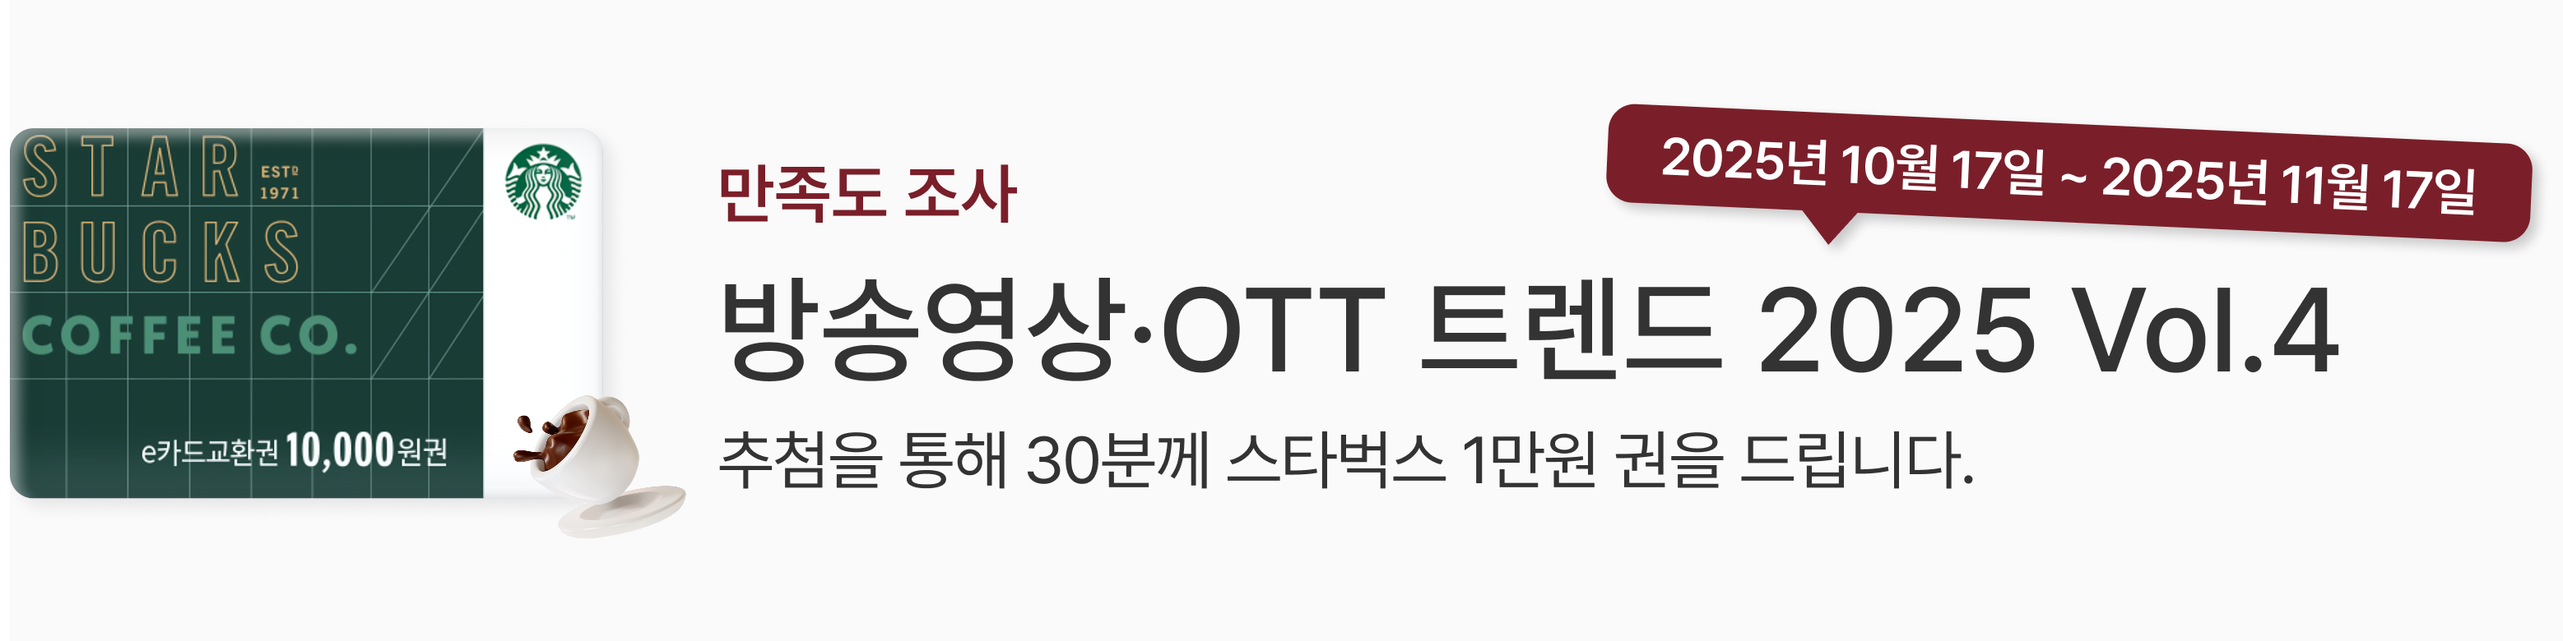
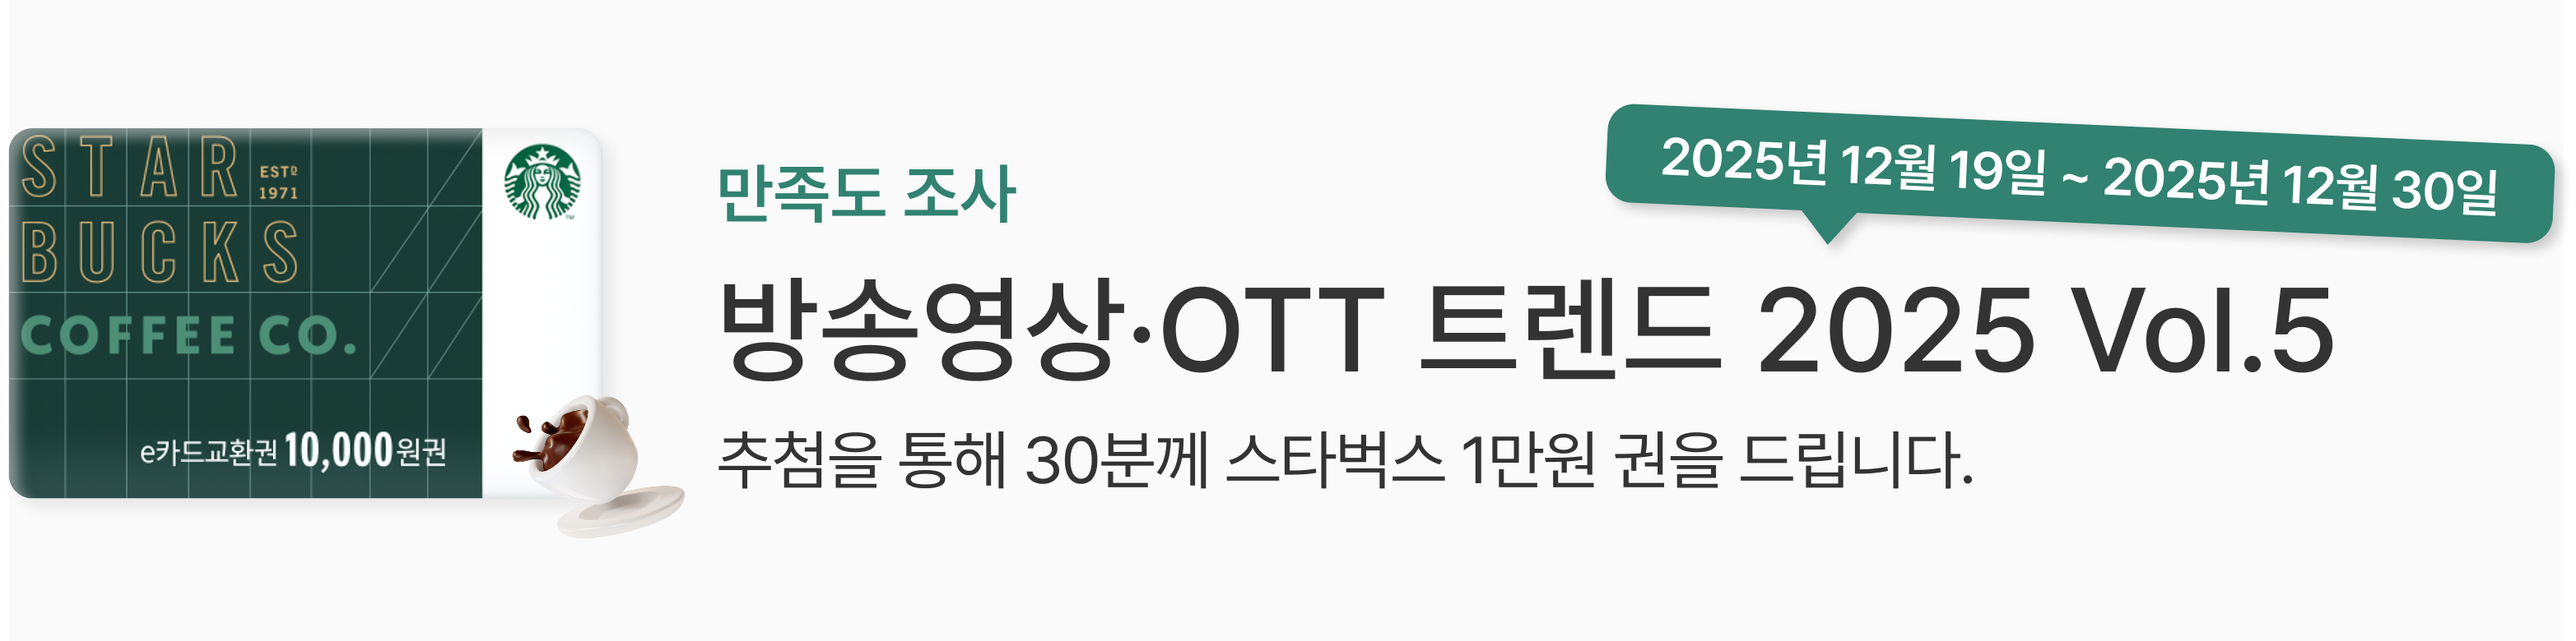
feat: 메인페이지 수정

diff --git a/index.html b/index.html
@@ -4,7 +4,7 @@
 <head>
   <meta charset="UTF-8" />
   <meta name="viewport" content="width=device-width, initial-scale=1.0" />
-  <meta name="방송영상·OTT 트렌드 2025 Vol. 4" content="방송영상·OTT 트렌드 2025 Vol. 4" />
+  <meta name="방송영상·OTT 트렌드 2025 Vol. 5" content="방송영상·OTT 트렌드 2025 Vol. 5" />
   <meta property="og:image" content="./img/assets/meta.png">
   <title>방송영상 · OTT 트렌드</title>
 
@@ -47,7 +47,7 @@
       <button id="menu-toggle" class="hamburger">
         <span></span><span></span><span></span>
       </button>
-      <div class="vol-info">2025 Vol. 4</div>
+      <div class="vol-info">2025 Vol. 5</div>
     </div>
 
     <!-- Fullscreen Mobile Modal -->
@@ -55,7 +55,7 @@
       <div class="menu-header">
         <p class="menu-title">메뉴</p>
         <div class="menu-right">
-          <div class="vol-info">2025 Vol. 4</div>
+          <div class="vol-info">2025 Vol. 5</div>
           <button id="menu-close">
             <img src="./img/assets/close.png" alt="닫기" class="close-btn" />
           </button>
@@ -95,10 +95,9 @@
               <div class="item-overlay"></div>
               <div class="item-content">
                 <div style="display: flex; flex-direction: column;">
-                  <p class="item-author">강재원ㅣ동국대학교 미디커뮤니케이션학과 교수</p>
-                  <p class="item-author">박성호ㅣMBC플러스 방송본부 부국장</p>
+                  <p class="item-author">최세정ㅣ고려대학교 미디어대학 교수</p>
                 </div>
-                <h2 class="item-title">K-방송영상콘텐츠의 새로운 시대를 열다: <span class="bodyQuotes">‘</span>성장통<span class="bodyQuotes">’</span>을 넘어서 <span class="bodyQuotes">‘</span>콘텐츠와 플랫폼이 상생하는 미디어 생태계<span class="bodyQuotes">’</span>로</h2>
+                <h2 class="item-title">크리에이터이코노미대격변: 니치 마켓의 선봉에서 미디어 생태계의 중심으로</h2>
               </div>
             </a>
           </div>
@@ -109,8 +108,8 @@
               <div class="item-bg" style="background-image: url('./img/manuscript2/thum.png');"></div>
               <div class="item-overlay"></div>
               <div class="item-content">
-                <p class="item-author">방연주ㅣ대중문화평론가</p>
-                <h2 class="item-title">생존 전략인가 전략적 동맹인가, 국제 공동제작 2.0</h2>
+                <p class="item-author">이은주ㅣ서울신문 기자</p>
+                <h2 class="item-title">‘팬심’이 곧 경쟁력...크리에이터 콘텐츠 생태계 이끄는 ‘팬덤 이코노미’</h2>
               </div>
             </a>
           </div>
@@ -121,30 +120,11 @@
               <div class="item-bg" style="background-image: url('./img/manuscript3/thum.png');"></div>
               <div class="item-overlay"></div>
               <div class="item-content">
-                <p class="item-author">박세진ㅣ한양대학교 미디어학과 부교수</p>
-                <h2 class="item-title">국제 공동제작 인센티브와 K-콘텐츠의 미래</h2>
+                <p class="item-author">권예지ㅣ한국방송광고진흥공사 미디어광고연구소 선임연구위원</p>
+                <h2 class="item-title">크리에이터 이코노미와 광고전략: 연결을 넘어 관계로, 관계를 넘어 시장으로</h2>
               </div>
             </a>
           </div>
-
-          <!-- SpotlightItem D -->
-          <div class="swiper-slide">
-            <a href="./spotlight_4.html" class="spotlight-item">
-              <div class="item-bg" style="background-image: url('./img/manuscript4/thum.png');"></div>
-              <div class="item-overlay"></div>
-              <div class="item-content">
-                <p class="item-author">김종원ㅣ제레미레터 대표</p>
-                <h2 class="item-title">K-콘텐츠, 플랫폼을 바꾸면 시장이 열린다: FAST · OTT의 새로운 기회</h2>
-              </div>
-            </a>
-          </div>
-        </div>
-
-        <div class="swiper-button-prev spotlight-button-prev">
-          <img src="./img/assets/page-arrow.png" alt="이전">
-        </div>
-        <div class="swiper-button-next spotlight-button-next">
-          <img src="./img/assets/page-arrow.png" alt="다음">
         </div>
       </div>
     </div>
@@ -169,7 +149,7 @@
           <!-- PeopleItem A -->
           <div class="swiper-slide">
             <a href="./people_1.html" class="people-item">
-              <div class="item-bg" style="background-image: url('./img/manuscript5/thum.png');"></div>
+              <div class="item-bg" style="background-image: url('./img/manuscript4/thum.png');"></div>
               <div class="item-overlay"></div>
               <div class="item-content">
                 <p class="item-author">백헌석ㅣ이엘TV·스튜디오잔치 대표</p>
@@ -181,7 +161,7 @@
           <!-- PeopleItem B -->
           <div class="swiper-slide">
             <a href="./people_2.html" class="people-item">
-              <div class="item-bg" style="background-image: url('./img/manuscript6/thum.png');"></div>
+              <div class="item-bg" style="background-image: url('./img/manuscript5/thum.png');"></div>
               <div class="item-overlay"></div>
               <div class="item-content">
                 <p class="item-author">김인식ㅣ스튜디오모닥 PD</p>

diff --git a/global_1.html b/global_1.html
@@ -4,7 +4,7 @@
 <head>
   <meta charset="UTF-8" />
   <meta name="viewport" content="width=device-width, initial-scale=1.0" />
-  <meta name="방송영상·OTT 트렌드 2025 Vol. 4" content="방송영상·OTT 트렌드 2025 Vol. 4" />
+  <meta name="방송영상·OTT 트렌드 2025 Vol. 5" content="방송영상·OTT 트렌드 2025 Vol. 5" />
   <meta property="og:image" content="./img/assets/meta.png">
   <title>방송영상 · OTT 트렌드</title>
 
@@ -45,7 +45,7 @@
       <button id="menu-toggle" class="hamburger">
         <span></span><span></span><span></span>
       </button>
-      <div class="vol-info">2025 Vol. 4</div>
+      <div class="vol-info">2025 Vol. 5</div>
     </div>
 
     <!-- Fullscreen Mobile Modal -->
@@ -53,7 +53,7 @@
       <div class="menu-header">
         <p class="menu-title">메뉴</p>
         <div class="menu-right">
-          <div class="vol-info">2025 Vol. 4</div>
+          <div class="vol-info">2025 Vol. 5</div>
           <button id="menu-close">
             <img src="./img/assets/close.png" alt="닫기" class="close-btn" />
           </button>

diff --git a/global_2.html b/global_2.html
@@ -4,7 +4,7 @@
 <head>
   <meta charset="UTF-8" />
   <meta name="viewport" content="width=device-width, initial-scale=1.0" />
-  <meta name="방송영상·OTT 트렌드 2025 Vol. 4" content="방송영상·OTT 트렌드 2025 Vol. 4" />
+  <meta name="방송영상·OTT 트렌드 2025 Vol. 5" content="방송영상·OTT 트렌드 2025 Vol. 5" />
   <meta property="og:image" content="./img/assets/meta.png">
   <title>방송영상 · OTT 트렌드</title>
 
@@ -45,7 +45,7 @@
       <button id="menu-toggle" class="hamburger">
         <span></span><span></span><span></span>
       </button>
-      <div class="vol-info">2025 Vol. 4</div>
+      <div class="vol-info">2025 Vol. 5</div>
     </div>
 
     <!-- Fullscreen Mobile Modal -->
@@ -53,7 +53,7 @@
       <div class="menu-header">
         <p class="menu-title">메뉴</p>
         <div class="menu-right">
-          <div class="vol-info">2025 Vol. 4</div>
+          <div class="vol-info">2025 Vol. 5</div>
           <button id="menu-close">
             <img src="./img/assets/close.png" alt="닫기" class="close-btn" />
           </button>

diff --git a/global_3.html b/global_3.html
@@ -4,7 +4,7 @@
 <head>
   <meta charset="UTF-8" />
   <meta name="viewport" content="width=device-width, initial-scale=1.0" />
-  <meta name="방송영상·OTT 트렌드 2025 Vol. 4" content="방송영상·OTT 트렌드 2025 Vol. 4" />
+  <meta name="방송영상·OTT 트렌드 2025 Vol. 5" content="방송영상·OTT 트렌드 2025 Vol. 5" />
   <meta property="og:image" content="./img/assets/meta.png">
   <title>방송영상 · OTT 트렌드</title>
 
@@ -45,7 +45,7 @@
       <button id="menu-toggle" class="hamburger">
         <span></span><span></span><span></span>
       </button>
-      <div class="vol-info">2025 Vol. 4</div>
+      <div class="vol-info">2025 Vol. 5</div>
     </div>
 
     <!-- Fullscreen Mobile Modal -->
@@ -53,7 +53,7 @@
       <div class="menu-header">
         <p class="menu-title">메뉴</p>
         <div class="menu-right">
-          <div class="vol-info">2025 Vol. 4</div>
+          <div class="vol-info">2025 Vol. 5</div>
           <button id="menu-close">
             <img src="./img/assets/close.png" alt="닫기" class="close-btn" />
           </button>

diff --git a/people_1.html b/people_1.html
@@ -4,7 +4,7 @@
 <head>
   <meta charset="UTF-8" />
   <meta name="viewport" content="width=device-width, initial-scale=1.0" />
-  <meta name="방송영상·OTT 트렌드 2025 Vol. 4" content="방송영상·OTT 트렌드 2025 Vol. 4" />
+  <meta name="방송영상·OTT 트렌드 2025 Vol. 5" content="방송영상·OTT 트렌드 2025 Vol. 5" />
   <meta property="og:image" content="./img/assets/meta.png">
   <title>방송영상 · OTT 트렌드</title>
 
@@ -45,7 +45,7 @@
       <button id="menu-toggle" class="hamburger">
         <span></span><span></span><span></span>
       </button>
-      <div class="vol-info">2025 Vol. 4</div>
+      <div class="vol-info">2025 Vol. 5</div>
     </div>
 
     <!-- Fullscreen Mobile Modal -->
@@ -53,7 +53,7 @@
       <div class="menu-header">
         <p class="menu-title">메뉴</p>
         <div class="menu-right">
-          <div class="vol-info">2025 Vol. 4</div>
+          <div class="vol-info">2025 Vol. 5</div>
           <button id="menu-close">
             <img src="./img/assets/close.png" alt="닫기" class="close-btn" />
           </button>

diff --git a/spotlight_1.html b/spotlight_1.html
@@ -4,7 +4,7 @@
 <head>
   <meta charset="UTF-8" />
   <meta name="viewport" content="width=device-width, initial-scale=1.0" />
-  <meta name="방송영상·OTT 트렌드 2025 Vol. 4" content="방송영상·OTT 트렌드 2025 Vol. 4" />
+  <meta name="방송영상·OTT 트렌드 2025 Vol. 5" content="방송영상·OTT 트렌드 2025 Vol. 5" />
   <meta property="og:image" content="./img/assets/meta.png">
   <title>방송영상 · OTT 트렌드</title>
 
@@ -45,7 +45,7 @@
       <button id="menu-toggle" class="hamburger">
         <span></span><span></span><span></span>
       </button>
-      <div class="vol-info">2025 Vol. 4</div>
+      <div class="vol-info">2025 Vol. 5</div>
     </div>
 
     <!-- Fullscreen Mobile Modal -->
@@ -53,7 +53,7 @@
       <div class="menu-header">
         <p class="menu-title">메뉴</p>
         <div class="menu-right">
-          <div class="vol-info">2025 Vol. 4</div>
+          <div class="vol-info">2025 Vol. 5</div>
           <button id="menu-close">
             <img src="./img/assets/close.png" alt="닫기" class="close-btn" />
           </button>

diff --git a/spotlight_2.html b/spotlight_2.html
@@ -4,7 +4,7 @@
 <head>
   <meta charset="UTF-8" />
   <meta name="viewport" content="width=device-width, initial-scale=1.0" />
-  <meta name="방송영상·OTT 트렌드 2025 Vol. 4" content="방송영상·OTT 트렌드 2025 Vol. 4" />
+  <meta name="방송영상·OTT 트렌드 2025 Vol. 5" content="방송영상·OTT 트렌드 2025 Vol. 5" />
   <meta property="og:image" content="./img/assets/meta.png">
   <title>방송영상 · OTT 트렌드</title>
 
@@ -45,7 +45,7 @@
       <button id="menu-toggle" class="hamburger">
         <span></span><span></span><span></span>
       </button>
-      <div class="vol-info">2025 Vol. 4</div>
+      <div class="vol-info">2025 Vol. 5</div>
     </div>
 
     <!-- Fullscreen Mobile Modal -->
@@ -53,7 +53,7 @@
       <div class="menu-header">
         <p class="menu-title">메뉴</p>
         <div class="menu-right">
-          <div class="vol-info">2025 Vol. 4</div>
+          <div class="vol-info">2025 Vol. 5</div>
           <button id="menu-close">
             <img src="./img/assets/close.png" alt="닫기" class="close-btn" />
           </button>

diff --git a/spotlight_3.html b/spotlight_3.html
@@ -4,7 +4,7 @@
 <head>
   <meta charset="UTF-8" />
   <meta name="viewport" content="width=device-width, initial-scale=1.0" />
-  <meta name="방송영상·OTT 트렌드 2025 Vol. 4" content="방송영상·OTT 트렌드 2025 Vol. 4" />
+  <meta name="방송영상·OTT 트렌드 2025 Vol. 5" content="방송영상·OTT 트렌드 2025 Vol. 5" />
   <meta property="og:image" content="./img/assets/meta.png">
   <title>방송영상 · OTT 트렌드</title>
 
@@ -45,7 +45,7 @@
       <button id="menu-toggle" class="hamburger">
         <span></span><span></span><span></span>
       </button>
-      <div class="vol-info">2025 Vol. 4</div>
+      <div class="vol-info">2025 Vol. 5</div>
     </div>
 
     <!-- Fullscreen Mobile Modal -->
@@ -53,7 +53,7 @@
       <div class="menu-header">
         <p class="menu-title">메뉴</p>
         <div class="menu-right">
-          <div class="vol-info">2025 Vol. 4</div>
+          <div class="vol-info">2025 Vol. 5</div>
           <button id="menu-close">
             <img src="./img/assets/close.png" alt="닫기" class="close-btn" />
           </button>

diff --git a/data_1.html b/data_1.html
@@ -4,7 +4,7 @@
 <head>
   <meta charset="UTF-8" />
   <meta name="viewport" content="width=device-width, initial-scale=1.0" />
-<meta name="방송영상·OTT 트렌드 2025 Vol. 4" content="방송영상·OTT 트렌드 2025 Vol. 4" />
+<meta name="방송영상·OTT 트렌드 2025 Vol. 5" content="방송영상·OTT 트렌드 2025 Vol. 5" />
   <meta property="og:image" content="./img/assets/meta.png">
   <title>방송영상 · OTT 트렌드</title>
 
@@ -45,7 +45,7 @@
       <button id="menu-toggle" class="hamburger">
         <span></span><span></span><span></span>
       </button>
-      <div class="vol-info">2025 Vol. 4</div>
+      <div class="vol-info">2025 Vol. 5</div>
     </div>
 
     <!-- Fullscreen Mobile Modal -->
@@ -53,7 +53,7 @@
       <div class="menu-header">
         <p class="menu-title">메뉴</p>
         <div class="menu-right">
-          <div class="vol-info">2025 Vol. 4</div>
+          <div class="vol-info">2025 Vol. 5</div>
           <button id="menu-close">
             <img src="./img/assets/close.png" alt="닫기" class="close-btn" />
           </button>

diff --git a/data_2.html b/data_2.html
@@ -4,7 +4,7 @@
 <head>
   <meta charset="UTF-8" />
   <meta name="viewport" content="width=device-width, initial-scale=1.0" />
-<meta name="방송영상·OTT 트렌드 2025 Vol. 4" content="방송영상·OTT 트렌드 2025 Vol. 4" />
+<meta name="방송영상·OTT 트렌드 2025 Vol. 5" content="방송영상·OTT 트렌드 2025 Vol. 5" />
   <meta property="og:image" content="./img/assets/meta.png">
   <title>방송영상 · OTT 트렌드</title>
 
@@ -45,7 +45,7 @@
       <button id="menu-toggle" class="hamburger">
         <span></span><span></span><span></span>
       </button>
-      <div class="vol-info">2025 Vol. 4</div>
+      <div class="vol-info">2025 Vol. 5</div>
     </div>
 
     <!-- Fullscreen Mobile Modal -->
@@ -53,7 +53,7 @@
       <div class="menu-header">
         <p class="menu-title">메뉴</p>
         <div class="menu-right">
-          <div class="vol-info">2025 Vol. 4</div>
+          <div class="vol-info">2025 Vol. 5</div>
           <button id="menu-close">
             <img src="./img/assets/close.png" alt="닫기" class="close-btn" />
           </button>

diff --git a/data_3.html b/data_3.html
@@ -4,7 +4,7 @@
 <head>
   <meta charset="UTF-8" />
   <meta name="viewport" content="width=device-width, initial-scale=1.0" />
-<meta name="방송영상·OTT 트렌드 2025 Vol. 4" content="방송영상·OTT 트렌드 2025 Vol. 4" />
+<meta name="방송영상·OTT 트렌드 2025 Vol. 5" content="방송영상·OTT 트렌드 2025 Vol. 5" />
   <meta property="og:image" content="./img/assets/meta.png">
   <title>방송영상 · OTT 트렌드</title>
 
@@ -45,7 +45,7 @@
       <button id="menu-toggle" class="hamburger">
         <span></span><span></span><span></span>
       </button>
-      <div class="vol-info">2025 Vol. 4</div>
+      <div class="vol-info">2025 Vol. 5</div>
     </div>
 
     <!-- Fullscreen Mobile Modal -->
@@ -53,7 +53,7 @@
       <div class="menu-header">
         <p class="menu-title">메뉴</p>
         <div class="menu-right">
-          <div class="vol-info">2025 Vol. 4</div>
+          <div class="vol-info">2025 Vol. 5</div>
           <button id="menu-close">
             <img src="./img/assets/close.png" alt="닫기" class="close-btn" />
           </button>

diff --git a/people_2.html b/people_2.html
@@ -4,7 +4,7 @@
 <head>
   <meta charset="UTF-8" />
   <meta name="viewport" content="width=device-width, initial-scale=1.0" />
-<meta name="방송영상·OTT 트렌드 2025 Vol. 4" content="방송영상·OTT 트렌드 2025 Vol. 4" />
+<meta name="방송영상·OTT 트렌드 2025 Vol. 5" content="방송영상·OTT 트렌드 2025 Vol. 5" />
   <meta property="og:image" content="./img/assets/meta.png">
   <title>방송영상 · OTT 트렌드</title>
 
@@ -45,7 +45,7 @@
       <button id="menu-toggle" class="hamburger">
         <span></span><span></span><span></span>
       </button>
-      <div class="vol-info">2025 Vol. 4</div>
+      <div class="vol-info">2025 Vol. 5</div>
     </div>
 
     <!-- Fullscreen Mobile Modal -->
@@ -53,7 +53,7 @@
       <div class="menu-header">
         <p class="menu-title">메뉴</p>
         <div class="menu-right">
-          <div class="vol-info">2025 Vol. 4</div>
+          <div class="vol-info">2025 Vol. 5</div>
           <button id="menu-close">
             <img src="./img/assets/close.png" alt="닫기" class="close-btn" />
           </button>
